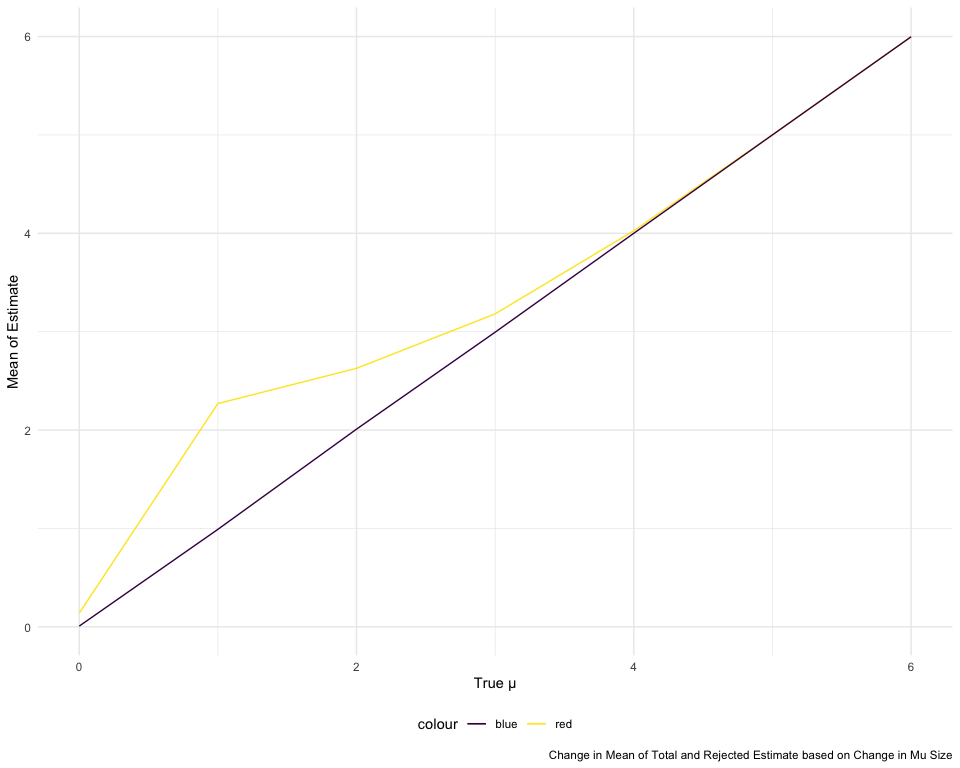
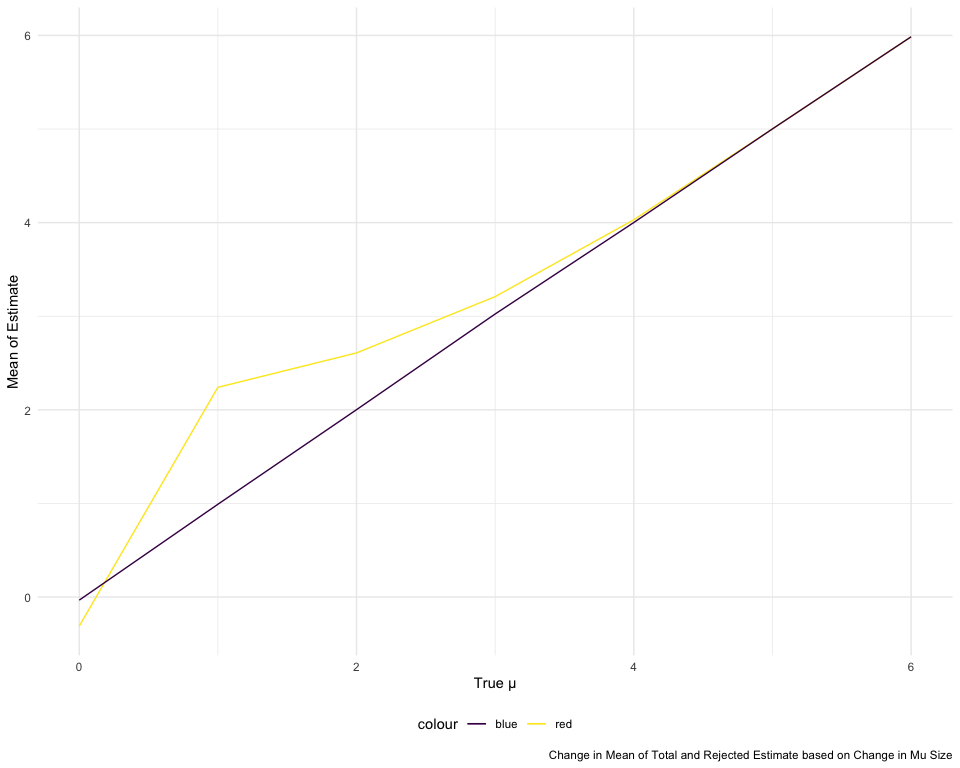
Submission - Corrected Typo

diff --git a/p8105_hw5_yy3421.md b/p8105_hw5_yy3421.md
@@ -366,16 +366,16 @@ sim_results
     ## # A tibble: 5,000 × 2
     ##    estimate p.value
     ##       <dbl>   <dbl>
-    ##  1  -1.77    0.0301
-    ##  2  -0.596   0.561 
-    ##  3  -0.0560  0.947 
-    ##  4   0.891   0.311 
-    ##  5   0.596   0.558 
-    ##  6   0.332   0.707 
-    ##  7   0.193   0.829 
-    ##  8   0.0188  0.983 
-    ##  9   1.25    0.104 
-    ## 10   0.468   0.542 
+    ##  1  0.368    0.588 
+    ##  2  0.749    0.496 
+    ##  3  0.157    0.880 
+    ##  4  0.550    0.568 
+    ##  5 -0.610    0.588 
+    ##  6  0.160    0.853 
+    ##  7  1.19     0.227 
+    ##  8 -0.00406  0.997 
+    ##  9 -2.31     0.0369
+    ## 10 -1.25     0.172 
     ## # ℹ 4,990 more rows
 
 ### Simulation for mu = 0:6
@@ -452,6 +452,6 @@ Based on the plot above, the sample average of μ̂ across tests for which
 the null is rejected is smaller than the true value of μ. As the null is
 rejected, compared to the total mean estimate of μ, the sample average
 will be more deviated from the true value of μ. Furthermore, as the
-effective size increases, leading high power of the test, the
+effective size increases, leading to high power of the test, the
 possibility of rejecting the null increases. This high possibility could
-also leads to a higher sample average compared to the true μ.
+also lead to a higher sample average compared to the true μ.
